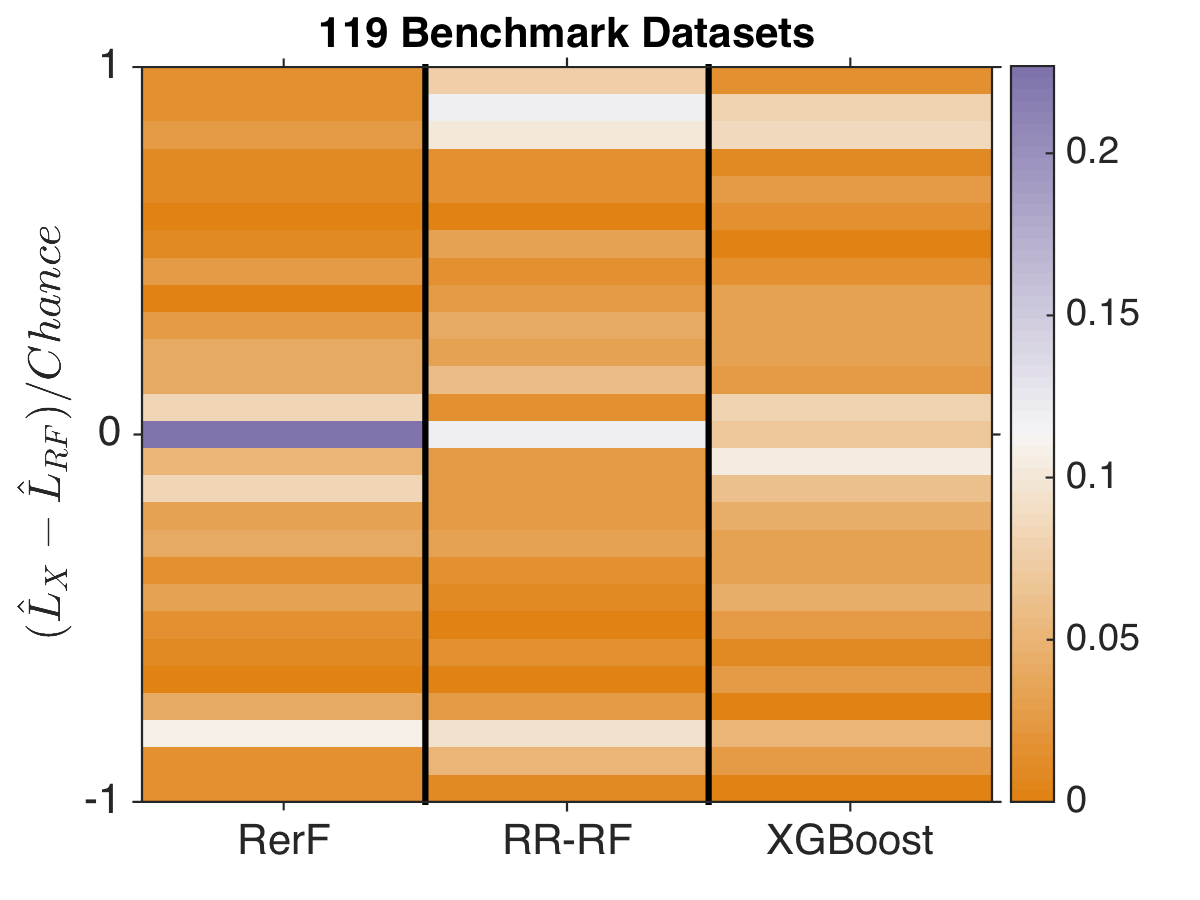
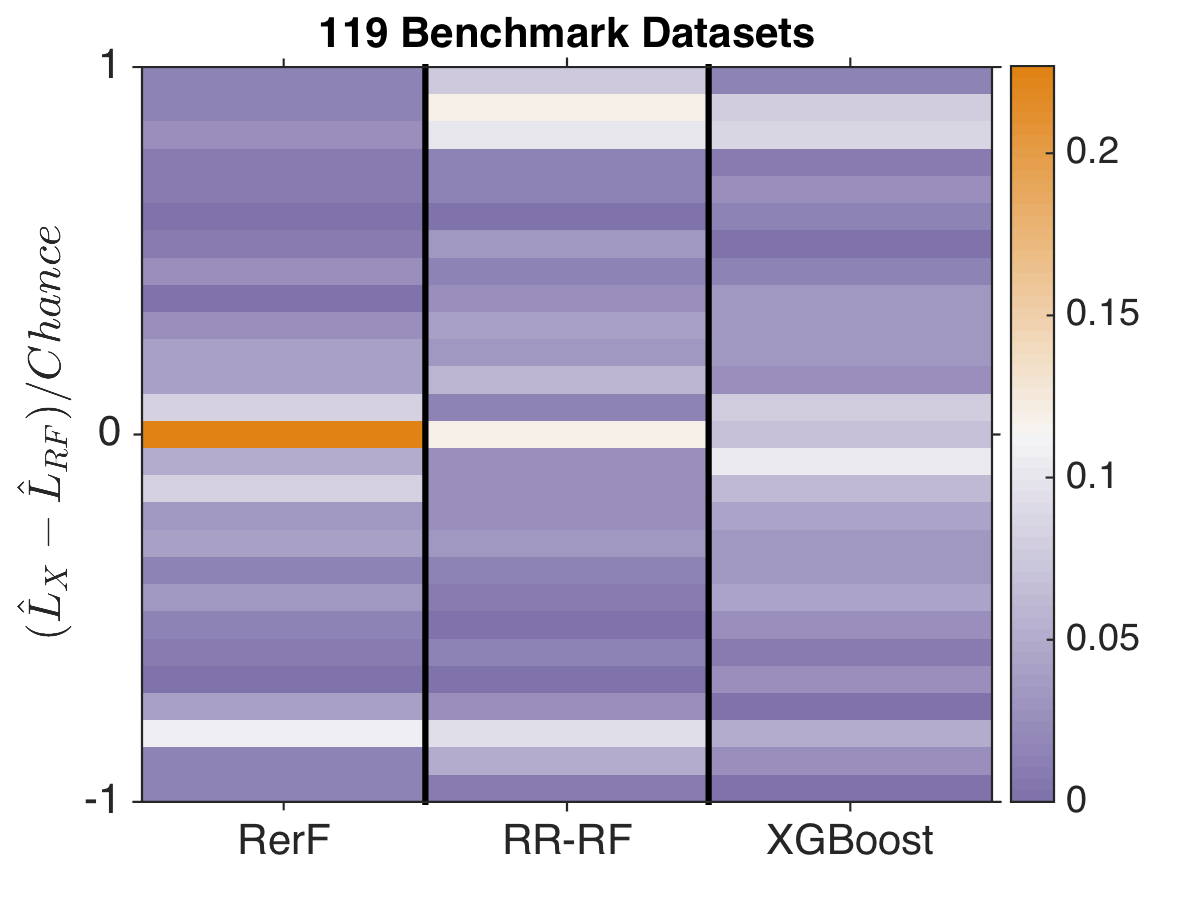
flip orange and purple ordering for jovo fig

diff --git a/Code/Plots/2017.03.20/Replot_benchmark_heatmap_slide_version.m b/Code/Plots/2017.03.20/Replot_benchmark_heatmap_slide_version.m
@@ -4,10 +4,10 @@ clear
 close all
 clc
 
-% load('red2purple')
+load('red2purple')
+ColorMap = flipud(interpolate_colormap(ColorMap(3:end-2,:),64,true));
+% load('purple2green')
 % ColorMap = interpolate_colormap(ColorMap(3:end-2,:),64,true);
-load('purple2green')
-ColorMap = interpolate_colormap(ColorMap(3:end-2,:),64,true);
 % ColorMap = flipud(ColorMap);
 % Colormap = parula;
 FontSize = 12;
@@ -106,4 +106,4 @@ end
 h.YTick = [0.5,14,27.5];
 h.YTickLabel = {'1';'0';'-1'};
 h.FontSize = 20;
-save_fig(gcf,'~/RandomerForest/Figures/2017.03.20/Benchmark_heatmap_relative_histogram_xgboost_normalized_by_chance_slide_version_for_jovo_purple2green',{'fig','pdf','png'})
+save_fig(gcf,'~/RandomerForest/Figures/2017.03.20/Benchmark_heatmap_relative_histogram_xgboost_normalized_by_chance_slide_version_for_jovo_orange2purple',{'fig','pdf','png'})
